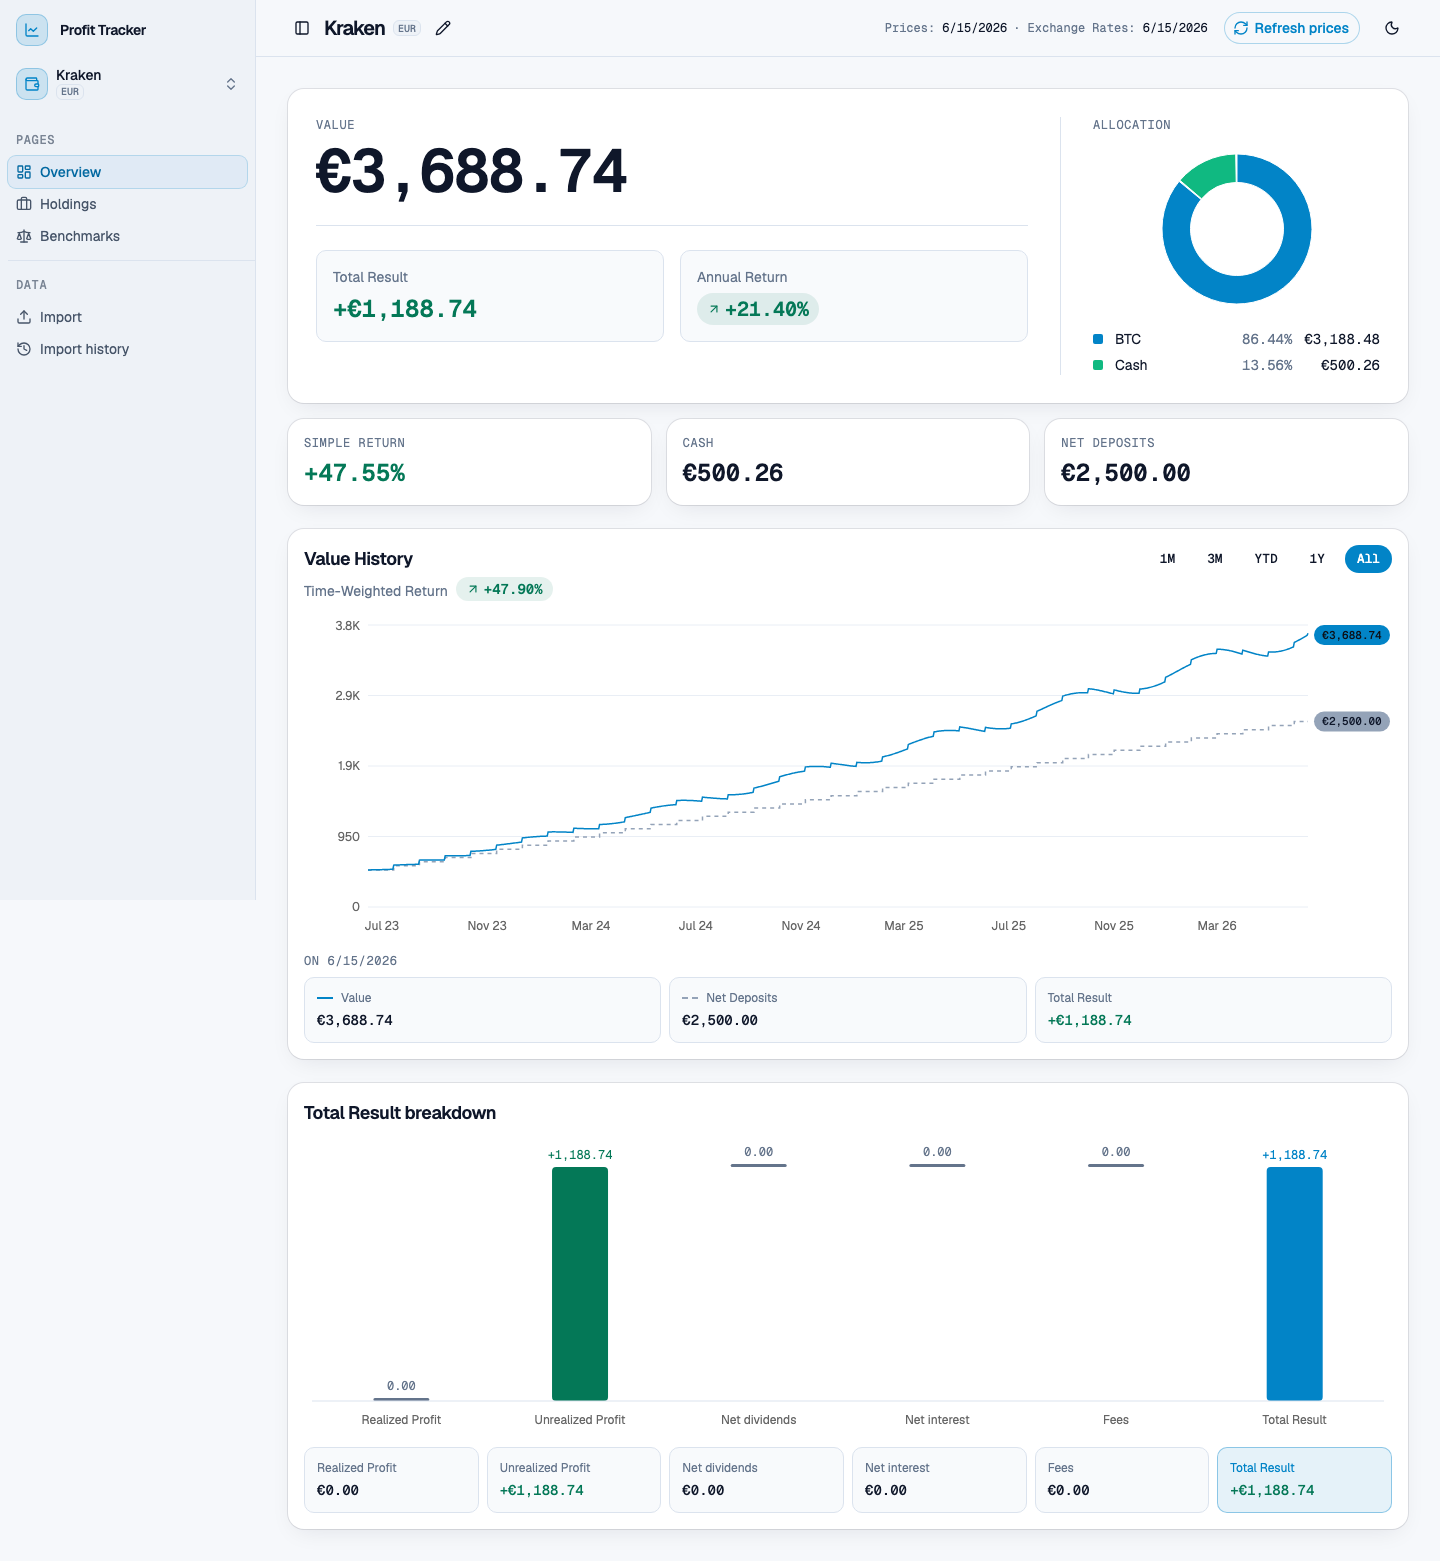
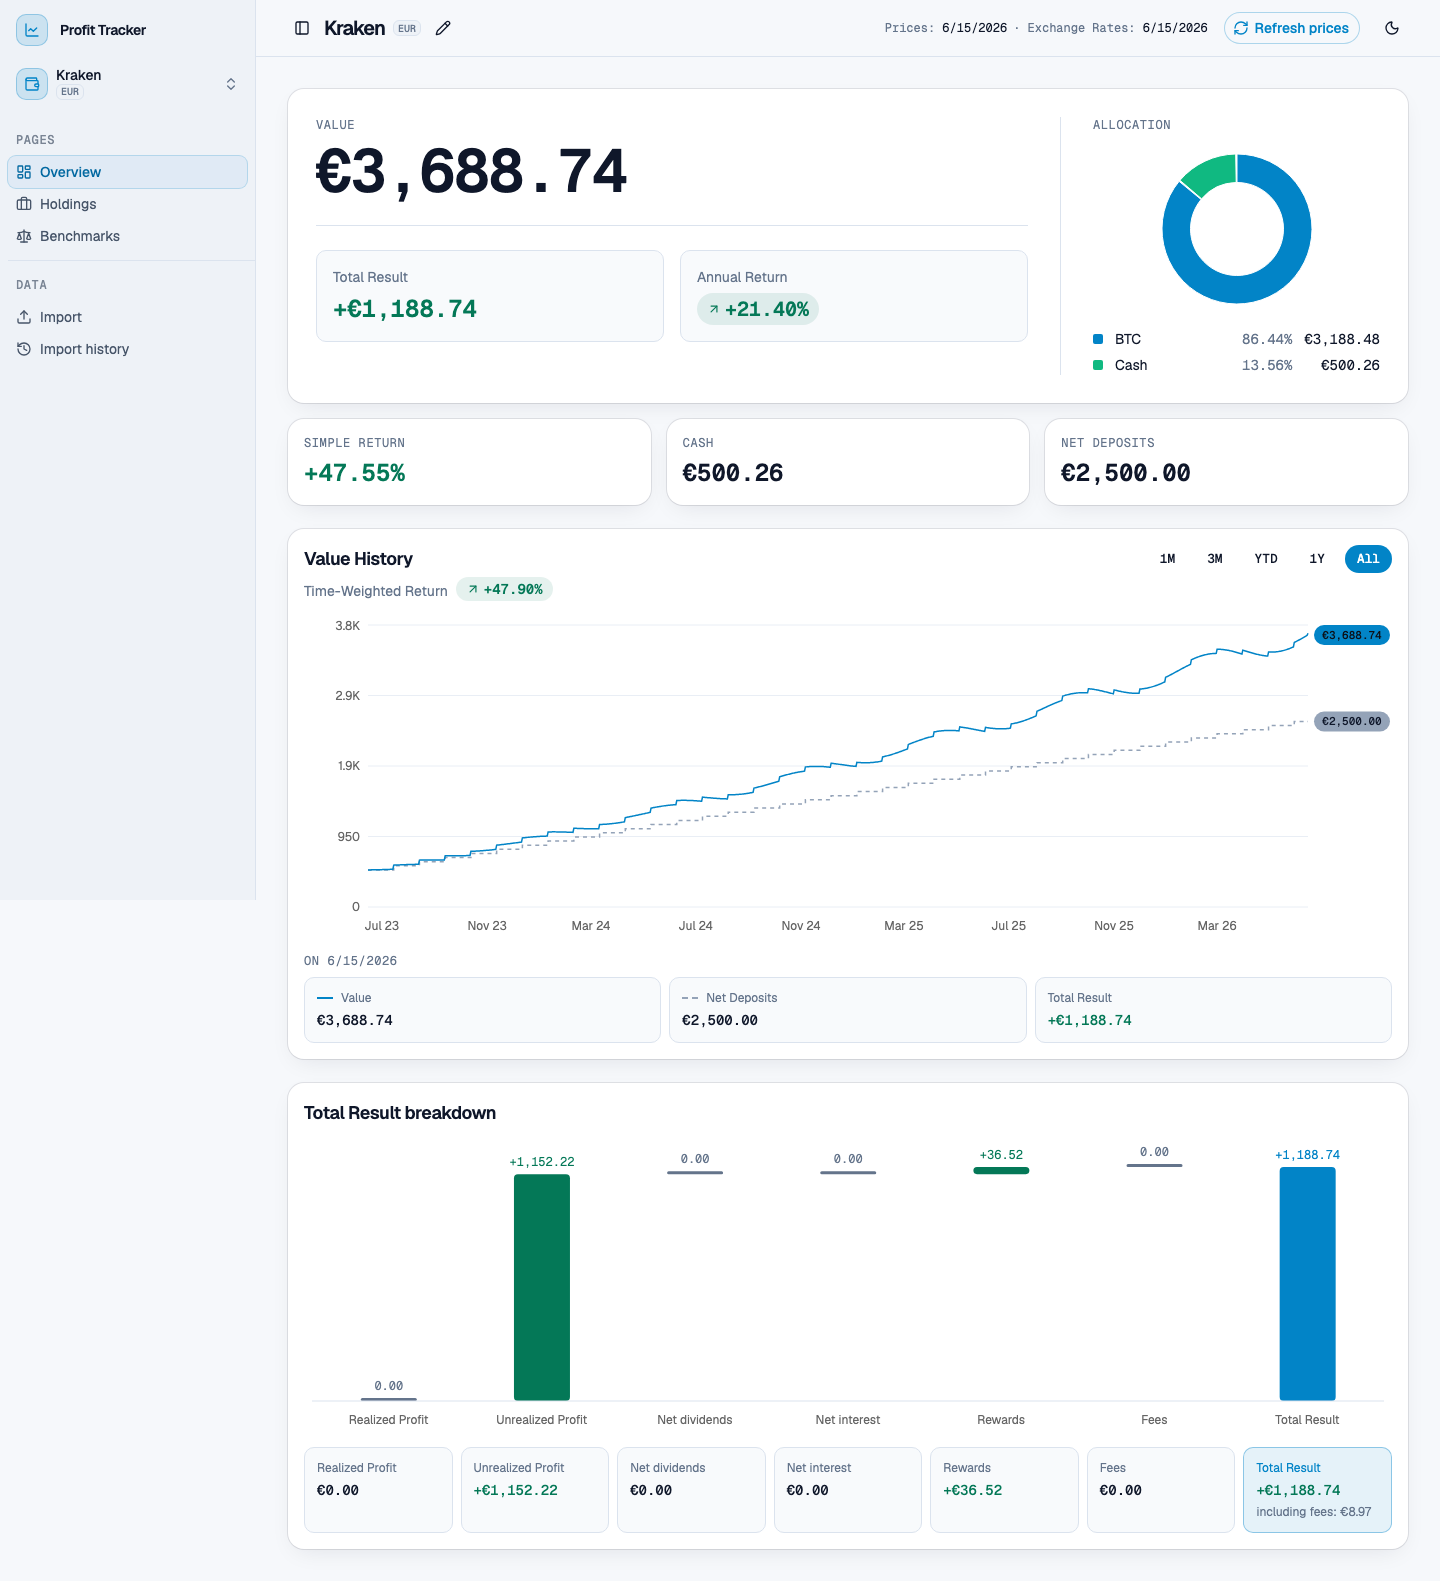
Show the Kraken Rewards and the sum of the fees
The Account overview of a Kraken Account shows the Rewards part of the
Total Result and the line "including fees: X" under the Total Result.
The XTB overview does not change.

- The Rewards box shows a dash when a Reward has no known value. Then
  the chart is not available, as for other unknown parts.
- The Holdings table, the narrow list and the Instrument Overview show
  the no-value pattern for a null cost and a null Average Cost.
- The Kraken screenshot data set gets Rewards and a fee sum. A new data
  set has a Reward with no stored close, with images for the overview
  and the Holdings page.

Closes #92

diff --git a/frontend/screenshots/fixtures.ts b/frontend/screenshots/fixtures.ts
@@ -39,6 +39,7 @@ export type DataSet =
   | "noAccounts"
   | "emptyAccounts"
   | "kraken"
+  | "krakenRewardUnknown"
 
 // The first Account is a regular Account. The second one is an IKZE Account.
 export const mainAccount: Account = {
@@ -174,27 +175,45 @@ const delta: Holding = {
   ...noSource,
 }
 
-// bitcoin is the crypto Holding of the Kraken Account. The volume has 8 decimal places.
+// bitcoin is the crypto Holding of the Kraken Account. The volume has 8 decimal places and includes the Rewards.
+// The cost is 1999.74 EUR of purchases plus 36.52 EUR of Rewards at the closes of their days.
 // The Average Cost has more decimal places than the screen shows. cost = volume × averageCost, rounded.
 const bitcoin: Holding = {
   ticker: "BTC",
   name: "BTC",
   volume: "0.03448875",
-  cost: "1999.74",
-  averageCost: "57982.3311204723",
+  cost: "2036.26",
+  averageCost: "59041.2815773259",
   price: "92450.00",
   priceDate: today,
   exchangeRate: "4.2600",
   exchangeRateCurrency: "EUR",
   exchangeRateDate: today,
   value: "3188.48",
-  unrealizedProfit: "1188.74",
-  unrealizedProfitPercent: "59.44",
+  unrealizedProfit: "1152.22",
+  unrealizedProfitPercent: "56.59",
   note: null,
   priceWarnings: [],
   priceTicker: "BTC-EUR",
   quoteCurrency: "EUR",
   ...noSource,
+}
+
+// bitcoinRewardUnknown is the Bitcoin Holding when a Reward has no stored close on or before its day.
+// Then the cost, the Average Cost and the value are not known.
+const bitcoinRewardUnknown: Holding = {
+  ...bitcoin,
+  cost: null,
+  averageCost: null,
+  price: null,
+  priceDate: null,
+  exchangeRate: null,
+  exchangeRateCurrency: null,
+  exchangeRateDate: null,
+  value: null,
+  unrealizedProfit: null,
+  unrealizedProfitPercent: null,
+  note: "A Reward has no close of its day or an earlier day. Refresh the prices to get the price history.",
 }
 
 const mainHoldings = [alpha, beta, gamma]
@@ -298,6 +317,8 @@ const mainSummary: AccountSummary = {
   netDividends: "820.40",
   netInterest: "35.15",
   fees: "-185.00",
+  rewards: "0.00",
+  feeSum: "0.00",
   priceDate: today,
   stalePrices: false,
   exchangeRateDate: today,
@@ -321,6 +342,8 @@ const ikzeSummary: AccountSummary = {
   netDividends: "0.00",
   netInterest: "0.00",
   fees: "-350.00",
+  rewards: "0.00",
+  feeSum: "0.00",
   priceDate: today,
   stalePrices: false,
   exchangeRateDate: null,
@@ -333,7 +356,7 @@ const ikzeSummary: AccountSummary = {
 }
 
 // Totals of the Kraken Account: 2500 EUR of Deposits, one Bitcoin Holding and the rest in cash.
-// The fee is in the cost, so the fees part is zero.
+// The fee is in the cost, so the fees part is zero. feeSum is information only.
 const krakenSummary: AccountSummary = {
   accountId: 3,
   currency: "EUR",
@@ -342,10 +365,12 @@ const krakenSummary: AccountSummary = {
   value: "3688.74",
   totalResult: "1188.74",
   realizedProfit: "0.00",
-  unrealizedProfit: "1188.74",
+  unrealizedProfit: "1152.22",
   netDividends: "0.00",
   netInterest: "0.00",
   fees: "0.00",
+  rewards: "36.52",
+  feeSum: "8.97",
   priceDate: today,
   stalePrices: false,
   exchangeRateDate: today,
@@ -355,6 +380,22 @@ const krakenSummary: AccountSummary = {
   simpleReturnNote: null,
   annualReturn: "21.40",
   annualReturnNote: null,
+}
+
+// krakenRewardUnknownSummary is the Kraken summary when a Reward has no stored close.
+// The Rewards part and the Holding have no known value, so they add nothing to the Total Result.
+const krakenRewardUnknownSummary: AccountSummary = {
+  ...krakenSummary,
+  value: "500.26",
+  totalResult: "0.00",
+  unrealizedProfit: "0.00",
+  rewards: null,
+  priceDate: null,
+  stalePrices: true,
+  exchangeRateDate: null,
+  unpricedHoldings: 1,
+  simpleReturn: "0.00",
+  annualReturn: "0.00",
 }
 
 // emptySummary is the summary of an Account with no Cash Operations.
@@ -371,6 +412,8 @@ function emptySummary(accountId: number): AccountSummary {
     netDividends: "0.00",
     netInterest: "0.00",
     fees: "0.00",
+    rewards: "0.00",
+    feeSum: "0.00",
     priceDate: null,
     stalePrices: false,
     exchangeRateDate: null,
@@ -1030,6 +1073,30 @@ export type ApiFixture = {
 
 // fixtureFor gives the answers of the fake backend for a data set.
 export function fixtureFor(dataSet: DataSet): ApiFixture {
+  if (dataSet === "krakenRewardUnknown") {
+    // The data set "krakenRewardUnknown" is the data set "kraken" with a Reward that has no stored close.
+    const kraken = fixtureFor("kraken")
+    return {
+      ...kraken,
+      summary: { ...kraken.summary, 3: krakenRewardUnknownSummary },
+      // The Holding with no value is not in the Allocation. The cash counts in the Account currency.
+      allocation: {
+        ...kraken.allocation,
+        3: {
+          ...allocationOf([], krakenRewardUnknownSummary.cash, "EUR"),
+          byQuoteCurrency: [
+            {
+              currency: "EUR",
+              value: krakenRewardUnknownSummary.cash,
+              share: "100.0000000000",
+            },
+          ],
+          unpricedHoldings: 1,
+        },
+      },
+      holdings: { ...kraken.holdings, 3: [bitcoinRewardUnknown] },
+    }
+  }
   if (dataSet === "kraken") {
     // The data set "kraken" is the populated data set with the Kraken Account in addition.
     const populated = fixtureFor("populated")

diff --git a/frontend/src/pages/account-overview-page.tsx b/frontend/src/pages/account-overview-page.tsx
@@ -1,14 +1,20 @@
 import { LoadedView } from "@/components/loaded-view"
 import { OverviewHero } from "@/components/overview-hero"
-import { TotalResultWaterfall } from "@/components/total-result-waterfall"
+import {
+  TotalResultWaterfall,
+  type WaterfallPart,
+} from "@/components/total-result-waterfall"
 import { ValueHistoryCard } from "@/components/value-history-card"
 import { useLoad } from "@/hooks/use-load"
 import {
   fetchAccountAllocation,
   fetchAccountSummary,
   fetchAccountValueHistory,
+  type AccountSummary,
+  type Provider,
 } from "@/lib/api"
 import { useAppState } from "@/lib/app-state"
+import { formatAmount } from "@/lib/format"
 import { useAccount } from "@/pages/account-layout"
 
 // AccountOverviewPage shows the values and the results of one Account, in the Account currency.
@@ -44,16 +50,33 @@ export function AccountOverviewPage() {
           <TotalResultWaterfall
             currency={data.currency}
             totalResult={data.totalResult}
-            parts={[
-              { label: "Realized Profit", amount: data.realizedProfit },
-              { label: "Unrealized Profit", amount: data.unrealizedProfit },
-              { label: "Net dividends", amount: data.netDividends },
-              { label: "Net interest", amount: data.netInterest },
-              { label: "Fees", amount: data.fees },
-            ]}
+            parts={totalResultParts(data, account.provider)}
+            totalNote={
+              account.provider === "kraken"
+                ? `including fees: ${formatAmount(data.feeSum, data.currency)}`
+                : undefined
+            }
           />
         </div>
       )}
     </LoadedView>
   )
+}
+
+// totalResultParts gives the parts of the Total Result of an Account in the order of the bars.
+// An Account with the Provider "kraken" also has the Rewards part (ADR 0009).
+function totalResultParts(
+  summary: AccountSummary,
+  provider: Provider
+): WaterfallPart[] {
+  return [
+    { label: "Realized Profit", amount: summary.realizedProfit },
+    { label: "Unrealized Profit", amount: summary.unrealizedProfit },
+    { label: "Net dividends", amount: summary.netDividends },
+    { label: "Net interest", amount: summary.netInterest },
+    ...(provider === "kraken"
+      ? [{ label: "Rewards", amount: summary.rewards }]
+      : []),
+    { label: "Fees", amount: summary.fees },
+  ]
 }

diff --git a/frontend/src/components/holdings-table.tsx b/frontend/src/components/holdings-table.tsx
@@ -142,7 +142,12 @@ export function holdingColumns(
             header: "Average Cost",
             meta: { align: "right" },
             sortValue: (holding) => decimalSortValue(holding.averageCost),
-            cell: ({ row }) => formatAmount(row.original.averageCost, currency),
+            cell: ({ row }) =>
+              row.original.averageCost !== null ? (
+                formatAmount(row.original.averageCost, currency)
+              ) : (
+                <NoValue />
+              ),
           },
         ]
       : []
@@ -190,7 +195,12 @@ export function holdingColumns(
       header: "Cost",
       meta: { align: "right" },
       sortValue: (holding) => decimalSortValue(holding.cost),
-      cell: ({ row }) => formatAmount(row.original.cost, currency),
+      cell: ({ row }) =>
+        row.original.cost !== null ? (
+          formatAmount(row.original.cost, currency)
+        ) : (
+          <NoValue />
+        ),
     },
     {
       id: "price",
@@ -289,7 +299,8 @@ type HoldingTotals = {
 // holdingTotals sums the Holdings with a known value. A Holding with no value is in no sum, also not in the cost.
 function holdingTotals(holdings: Holding[]): HoldingTotals {
   const known = holdings.filter(hasKnownValue)
-  const cost = sumDecimals(known.map((holding) => holding.cost))
+  // A Holding with a known value always has a known cost.
+  const cost = sumDecimals(known.map((holding) => holding.cost as string))
   const unrealizedProfit = sumDecimals(
     known.map((holding) => holding.unrealizedProfit as string)
   )
@@ -420,7 +431,10 @@ function HoldingRows({
                 </span>
                 {showAverageCost && (
                   <span className="num text-xs text-muted-foreground">
-                    Average Cost {formatAmount(holding.averageCost, currency)}
+                    Average Cost{" "}
+                    {holding.averageCost !== null
+                      ? formatAmount(holding.averageCost, currency)
+                      : "—"}
                   </span>
                 )}
                 <span className="sr-only">Open the Instrument Overview.</span>

diff --git a/frontend/src/components/total-result-waterfall.tsx b/frontend/src/components/total-result-waterfall.tsx
@@ -32,6 +32,8 @@ type TotalResultWaterfallProps = {
   parts: WaterfallPart[]
   totalResult: string | null
   currency: string
+  // totalNote is an optional line under the amount of the Total Result, for example the sum of the fees.
+  totalNote?: string
 }
 
 // BarKind selects the colour of a bar.
@@ -64,6 +66,7 @@ export function TotalResultWaterfall({
   parts,
   totalResult,
   currency,
+  totalNote,
 }: TotalResultWaterfallProps) {
   const isMobile = useIsMobile()
   const bars = waterfallBars(parts, totalResult)
@@ -100,6 +103,7 @@ export function TotalResultWaterfall({
               part={box}
               currency={currency}
               total={index === boxes.length - 1}
+              note={index === boxes.length - 1 ? totalNote : undefined}
             />
           ))}
         </ul>
@@ -266,10 +270,11 @@ type AmountBoxProps = {
   part: WaterfallPart
   currency: string
   total: boolean
+  note?: string
 }
 
-// AmountBox shows the exact amount of one part, or of the Total Result.
-function AmountBox({ part, currency, total }: AmountBoxProps) {
+// AmountBox shows the exact amount of one part, or of the Total Result, and an optional note under it.
+function AmountBox({ part, currency, total, note }: AmountBoxProps) {
   return (
     <InsetSurface
       as="li"
@@ -293,6 +298,7 @@ function AmountBox({ part, currency, total }: AmountBoxProps) {
           ? "—"
           : formatAmount(part.amount, currency, { signed: true })}
       </span>
+      {note && <span className="text-xs text-muted-foreground">{note}</span>}
     </InsetSurface>
   )
 }

diff --git a/frontend/src/components/instrument-overview-panel.tsx b/frontend/src/components/instrument-overview-panel.tsx
@@ -360,10 +360,18 @@ function HoldingSection({
       <InsetSurface as="dl" className="flex flex-col divide-y px-3 text-sm">
         <DetailRow label="Volume">{formatVolume(holding.volume)}</DetailRow>
         <DetailRow label="Average cost">
-          {formatAmount(holding.averageCost, currency)}
+          {holding.averageCost !== null ? (
+            formatAmount(holding.averageCost, currency)
+          ) : (
+            <NoValue />
+          )}
         </DetailRow>
         <DetailRow label="Cost">
-          {formatAmount(holding.cost, currency)}
+          {holding.cost !== null ? (
+            formatAmount(holding.cost, currency)
+          ) : (
+            <NoValue />
+          )}
         </DetailRow>
         <DetailRow label="Price">
           {holding.price !== null && holding.priceDate !== null ? (

diff --git a/frontend/screenshots/pages.spec.ts b/frontend/screenshots/pages.spec.ts
@@ -98,6 +98,21 @@ const pageCases: PageCase[] = [
     charts: false,
     populatedSet: "kraken",
   },
+  {
+    // A Reward has no stored close. The Rewards part and the Bitcoin Holding have no known value.
+    name: "kraken-overview-reward-unknown",
+    url: "/accounts/3",
+    empty: null,
+    charts: true,
+    populatedSet: "krakenRewardUnknown",
+  },
+  {
+    name: "kraken-holdings-reward-unknown",
+    url: "/accounts/3/holdings",
+    empty: null,
+    charts: false,
+    populatedSet: "krakenRewardUnknown",
+  },
   { name: "import", url: "/import", empty: null, charts: false },
   { name: "imports", url: "/imports", empty: "emptyAccounts", charts: false },
   { name: "not-found", url: "/no-such-page", empty: null, charts: false },
